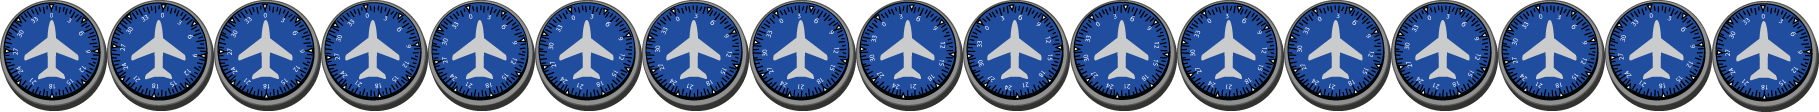
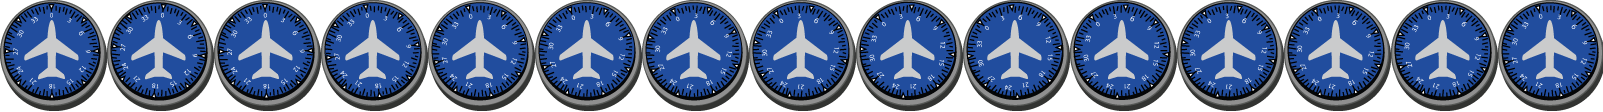
consertei a  bússola do avião, e coloquei o boneco do paraquedas separado, é pra colocar lá.

diff --git a/paraquedas/aviao.js b/paraquedas/aviao.js
@@ -1,3 +1,4 @@
+
 function Aviao(file, tamanho_w, tamanho_h, posicao_x, posicao_y)
 {//abre 
 
@@ -11,22 +12,22 @@ function Aviao(file, tamanho_w, tamanho_h, posicao_x, posicao_y)
         this.posicao_x_dst = posicao_x;
         this.posicao_y_dst = posicao_y;
         
-        this.scale_x = 0.3;
-        this.scale_y = 0.3;
+        this.scale_x = 0.5;
+        this.scale_y = 0.5;
         
         this.tamanho_w_src = tamanho_w;
         this.tamanho_h_src = tamanho_h;
         
-        this.tamanho_w_dst = 307;
-        this.tamanho_h_dst = 312;
+        this.tamanho_w_dst = 300;
+        this.tamanho_h_dst = 300;
         
         this.posicao_x_src = 0;
         this.posicao_y_src = 0;
         
         this.current_frame = 0;
-        this.frames = 14;
+        this.frames = 4;
         
-        this.fps = 17;//frames por segundo
+        this.fps = 1;//frames por segundo
         this.time_per_frame = 1000/this.fps;
         this.setFPS = function(newFPS)
         {//abre setFPS
